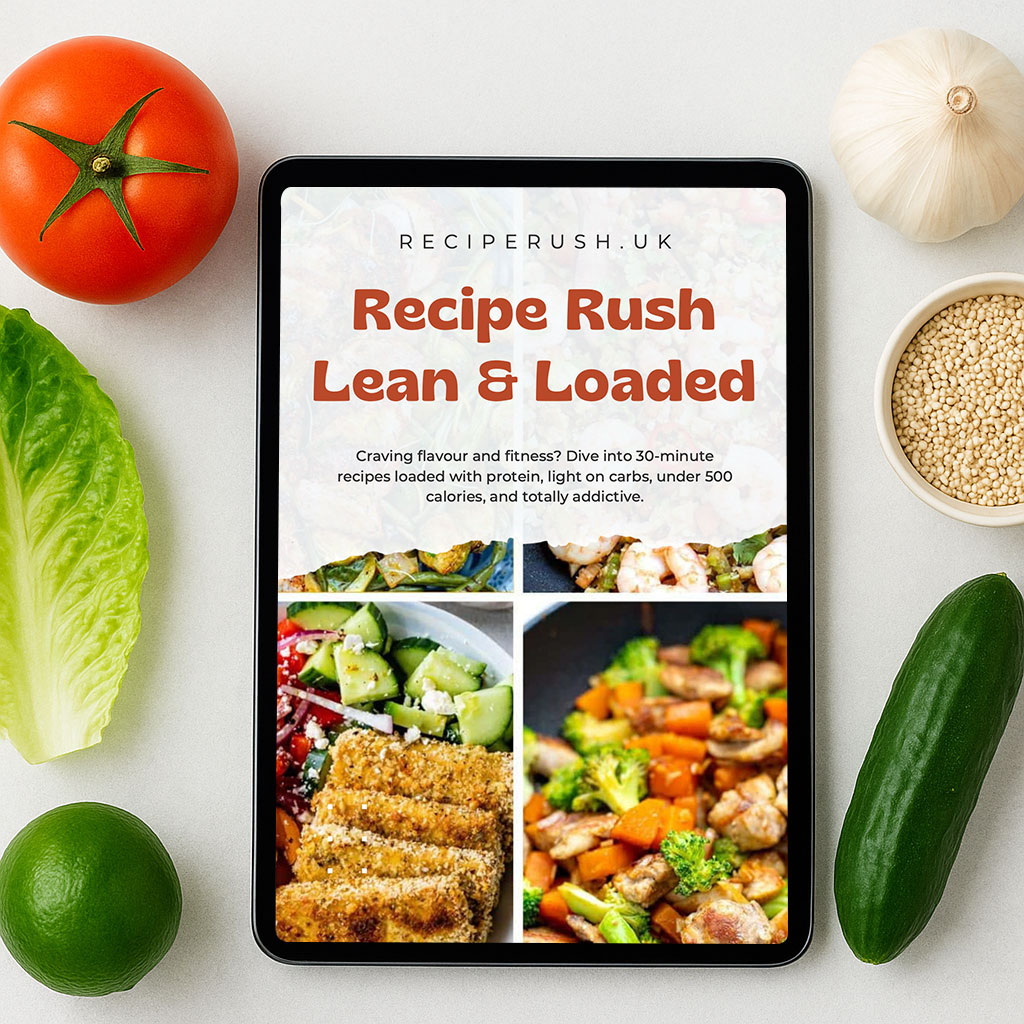
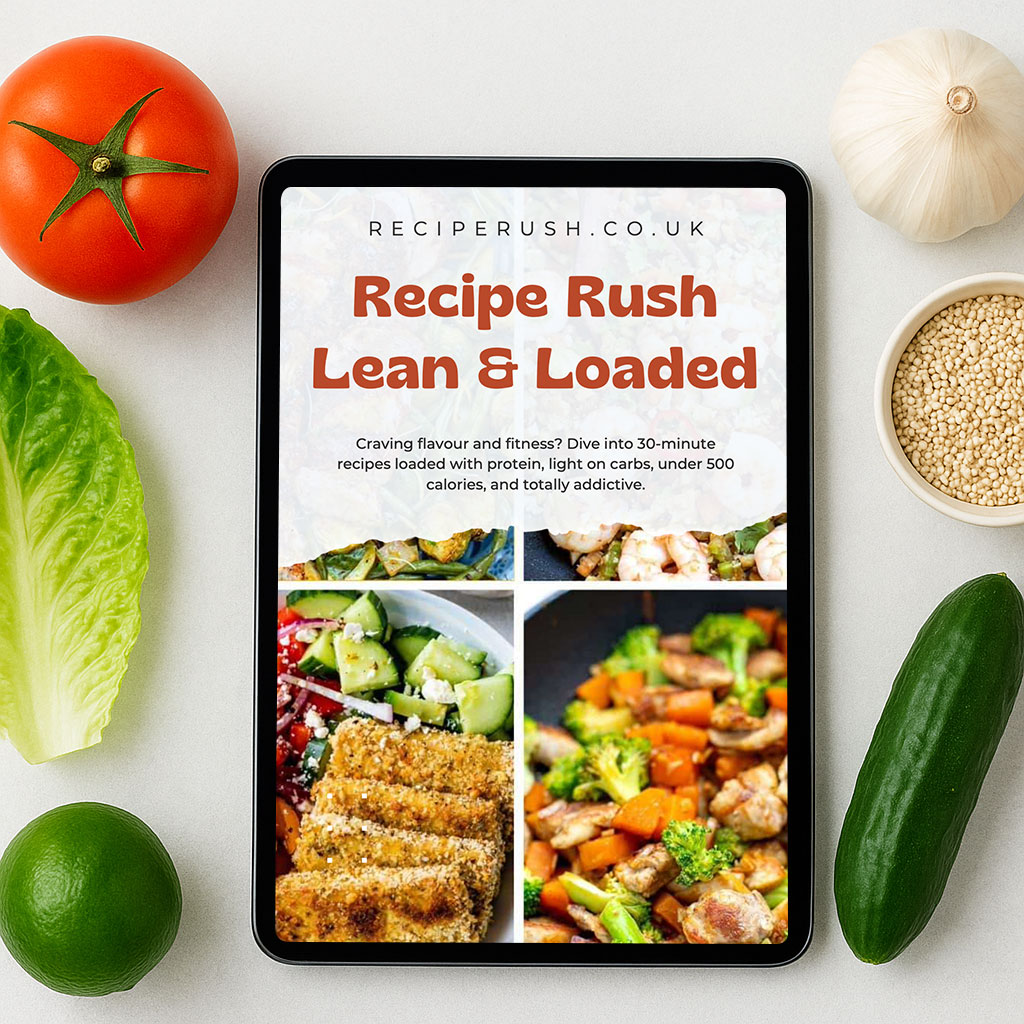
refactor: Cannocal links

Changed region(s): [[0.25, 0.2188, 0.7812, 0.9375]]

diff --git a/catalog.html b/catalog.html
@@ -10,10 +10,10 @@
     <meta property="og:title" content="Recipe Catalog - RecipeRush">
     <meta property="og:description" content="Browse our premium recipe collection. Professional-grade recipes that guarantee restaurant-quality results.">
     <meta property="og:type" content="website">
-    <meta property="og:url" content="https://reciperush.co.uk/catalog.html">
+    <meta property="og:url" content="https://reciperush.co.uk/catalog">
     <meta property="og:image" content="https://images.unsplash.com/photo-1556909114-f6e7ad7d3136?w=1200&h=630&fit=crop">
     <meta property="og:site_name" content="RecipeRush">
-    <link rel="canonical" href="https://reciperush.co.uk/catalog.html">
+    <link rel="canonical" href="https://reciperush.co.uk/catalog">
     <link rel="icon" href="images/refiperush-favicon.png" type="image/png">
     <link rel="apple-touch-icon" href="images/refiperush-favicon.png">
     <link rel="manifest" href="manifest.webmanifest">
@@ -51,7 +51,7 @@
             "price": "10.00",
             "priceCurrency": "GBP",
             "availability": "https://schema.org/InStock",
-            "url": "https://reciperush.co.uk/catalog.html",
+            "url": "https://reciperush.co.uk/catalog",
             "seller": {
                 "@type": "Organization",
                 "name": "RecipeRush"
@@ -66,7 +66,7 @@
     <header class="header">
         <nav class="nav">
             <div class="nav-brand">
-                <a href="index.html" class="nav-brand-link">RecipeRush</a>
+                <a href="/" class="nav-brand-link">RecipeRush</a>
             </div>
             
             <!-- Mobile Burger Menu Button -->
@@ -78,9 +78,9 @@
             
             <!-- Desktop Navigation -->
             <ul class="nav-menu">
-                <li><a href="index.html" class="nav-link">Home</a></li>
-                <li><a href="catalog.html" class="nav-link active">Catalog</a></li>
-                <li><a href="contact.html" class="nav-link">Contact</a></li>
+                <li><a href="/" class="nav-link">Home</a></li>
+                <li><a href="/catalog" class="nav-link active">Catalog</a></li>
+                <li><a href="/contact" class="nav-link">Contact</a></li>
             </ul>
             <div class="nav-actions">
                 <button class="btn-cart" onclick="openCart()">
@@ -99,9 +99,9 @@
                     </button>
                 </div>
                 <ul class="mobile-nav-menu">
-                    <li><a href="index.html" class="mobile-nav-link" onclick="closeMobileMenu()">Home</a></li>
-                    <li><a href="catalog.html" class="mobile-nav-link active" onclick="closeMobileMenu()">Catalog</a></li>
-                    <li><a href="contact.html" class="mobile-nav-link" onclick="closeMobileMenu()">Contact</a></li>
+                    <li><a href="/" class="mobile-nav-link" onclick="closeMobileMenu()">Home</a></li>
+                    <li><a href="/catalog" class="mobile-nav-link active" onclick="closeMobileMenu()">Catalog</a></li>
+                    <li><a href="/contact" class="mobile-nav-link" onclick="closeMobileMenu()">Contact</a></li>
                 </ul>
                 <div class="mobile-nav-actions">
                     <button class="btn-cart-mobile" onclick="openCart(); closeMobileMenu()">

diff --git a/contact.html b/contact.html
@@ -13,7 +13,8 @@
     <meta property="og:url" content="https://reciperush.co.uk/contact.html">
     <meta property="og:image" content="https://images.unsplash.com/photo-1556909114-f6e7ad7d3136?w=1200&h=630&fit=crop">
     <meta property="og:site_name" content="RecipeRush">
-    <link rel="canonical" href="https://reciperush.co.uk/contact.html">
+    <link rel="canonical" href="https://reciperush.co.uk/contact">
+   <meta property="og:url" content="https://reciperush.co.uk/contact">
     <link rel="icon" href="images/refiperush-favicon.png" type="image/png">
     <link rel="apple-touch-icon" href="images/refiperush-favicon.png">
     <link rel="manifest" href="manifest.webmanifest">
@@ -43,7 +44,7 @@
     <header class="header">
         <nav class="nav">
             <div class="nav-brand">
-                <a href="index.html" class="nav-brand-link">RecipeRush</a>
+                <a href="/" class="nav-brand-link">RecipeRush</a>
             </div>
             
             <!-- Mobile Burger Menu Button -->
@@ -55,9 +56,9 @@
             
             <!-- Desktop Navigation -->
             <ul class="nav-menu">
-                <li><a href="index.html" class="nav-link">Home</a></li>
-                <li><a href="catalog.html" class="nav-link">Catalog</a></li>
-                <li><a href="contact.html" class="nav-link active">Contact</a></li>
+                <li><a href="/" class="nav-link">Home</a></li>
+                <li><a href="/catalog" class="nav-link">Catalog</a></li>
+                <li><a href="/contact" class="nav-link active">Contact</a></li>
             </ul>
             <div class="nav-actions">
                 <button class="btn-cart" onclick="openCart()">
@@ -76,9 +77,9 @@
                     </button>
                 </div>
                 <ul class="mobile-nav-menu">
-                    <li><a href="index.html" class="mobile-nav-link" onclick="closeMobileMenu()">Home</a></li>
-                    <li><a href="catalog.html" class="mobile-nav-link" onclick="closeMobileMenu()">Catalog</a></li>
-                    <li><a href="contact.html" class="mobile-nav-link active" onclick="closeMobileMenu()">Contact</a></li>
+                    <li><a href="/" class="mobile-nav-link" onclick="closeMobileMenu()">Home</a></li>
+                    <li><a href="/catalog" class="mobile-nav-link" onclick="closeMobileMenu()">Catalog</a></li>
+                    <li><a href="/contact" class="mobile-nav-link active" onclick="closeMobileMenu()">Contact</a></li>
                 </ul>
                 <div class="mobile-nav-actions">
                     <button class="btn-cart-mobile" onclick="openCart(); closeMobileMenu()">

diff --git a/index.html b/index.html
@@ -57,7 +57,7 @@
     <header class="header">
         <nav class="nav">
             <div class="nav-brand">
-                <a href="index.html" class="nav-brand-link" aria-label="RecipeRush home" aria-current="page">RecipeRush</a>
+                <a href="/" class="nav-brand-link" aria-label="RecipeRush home" aria-current="page">RecipeRush</a>
             </div>
             
             <!-- Mobile Burger Menu Button -->
@@ -69,9 +69,9 @@
             
             <!-- Desktop Navigation -->
             <ul class="nav-menu">
-                <li><a href="index.html" class="nav-link active">Home</a></li>
-                <li><a href="catalog.html" class="nav-link">Catalog</a></li>
-                <li><a href="contact.html" class="nav-link">Contact</a></li>
+                <li><a href="/" class="nav-link active">Home</a></li>
+                <li><a href="/catalog" class="nav-link">Catalog</a></li>
+                <li><a href="/contact" class="nav-link">Contact</a></li>
             </ul>
             <div class="nav-actions">
                 <button class="btn-cart" onclick="openCart()">
@@ -90,9 +90,9 @@
                     </button>
                 </div>
                 <ul class="mobile-nav-menu">
-                    <li><a href="index.html" class="mobile-nav-link active" onclick="closeMobileMenu()">Home</a></li>
-                    <li><a href="catalog.html" class="mobile-nav-link" onclick="closeMobileMenu()">Catalog</a></li>
-                    <li><a href="contact.html" class="mobile-nav-link" onclick="closeMobileMenu()">Contact</a></li>
+                    <li><a href="/" class="mobile-nav-link active" onclick="closeMobileMenu()">Home</a></li>
+                    <li><a href="/catalog" class="mobile-nav-link" onclick="closeMobileMenu()">Catalog</a></li>
+                    <li><a href="/contact" class="mobile-nav-link" onclick="closeMobileMenu()">Contact</a></li>
                 </ul>
                 <div class="mobile-nav-actions">
                     <button class="btn-cart-mobile" onclick="openCart(); closeMobileMenu()">

diff --git a/server.js b/server.js
@@ -738,6 +738,30 @@ app.get('/', (req, res) => {
     res.sendFile(path.join(__dirname, 'index.html'));
 });
 
+// Clean URL routes for main pages
+app.get('/catalog', (req, res) => {
+    res.sendFile(path.join(__dirname, 'catalog.html'));
+});
+
+app.get('/contact', (req, res) => {
+    res.sendFile(path.join(__dirname, 'contact.html'));
+});
+
+// 301 redirects from legacy .html paths to clean URLs
+const legacyRedirects = {
+    '/index.html': '/',
+    '/catalog.html': '/catalog',
+    '/contact.html': '/contact'
+};
+
+app.get(Object.keys(legacyRedirects), (req, res) => {
+    const target = legacyRedirects[req.path];
+    if (target) {
+        return res.redirect(301, target);
+    }
+    res.status(404).end();
+});
+
 // API status endpoint
 app.get('/api/status', (req, res) => {
     res.json({
